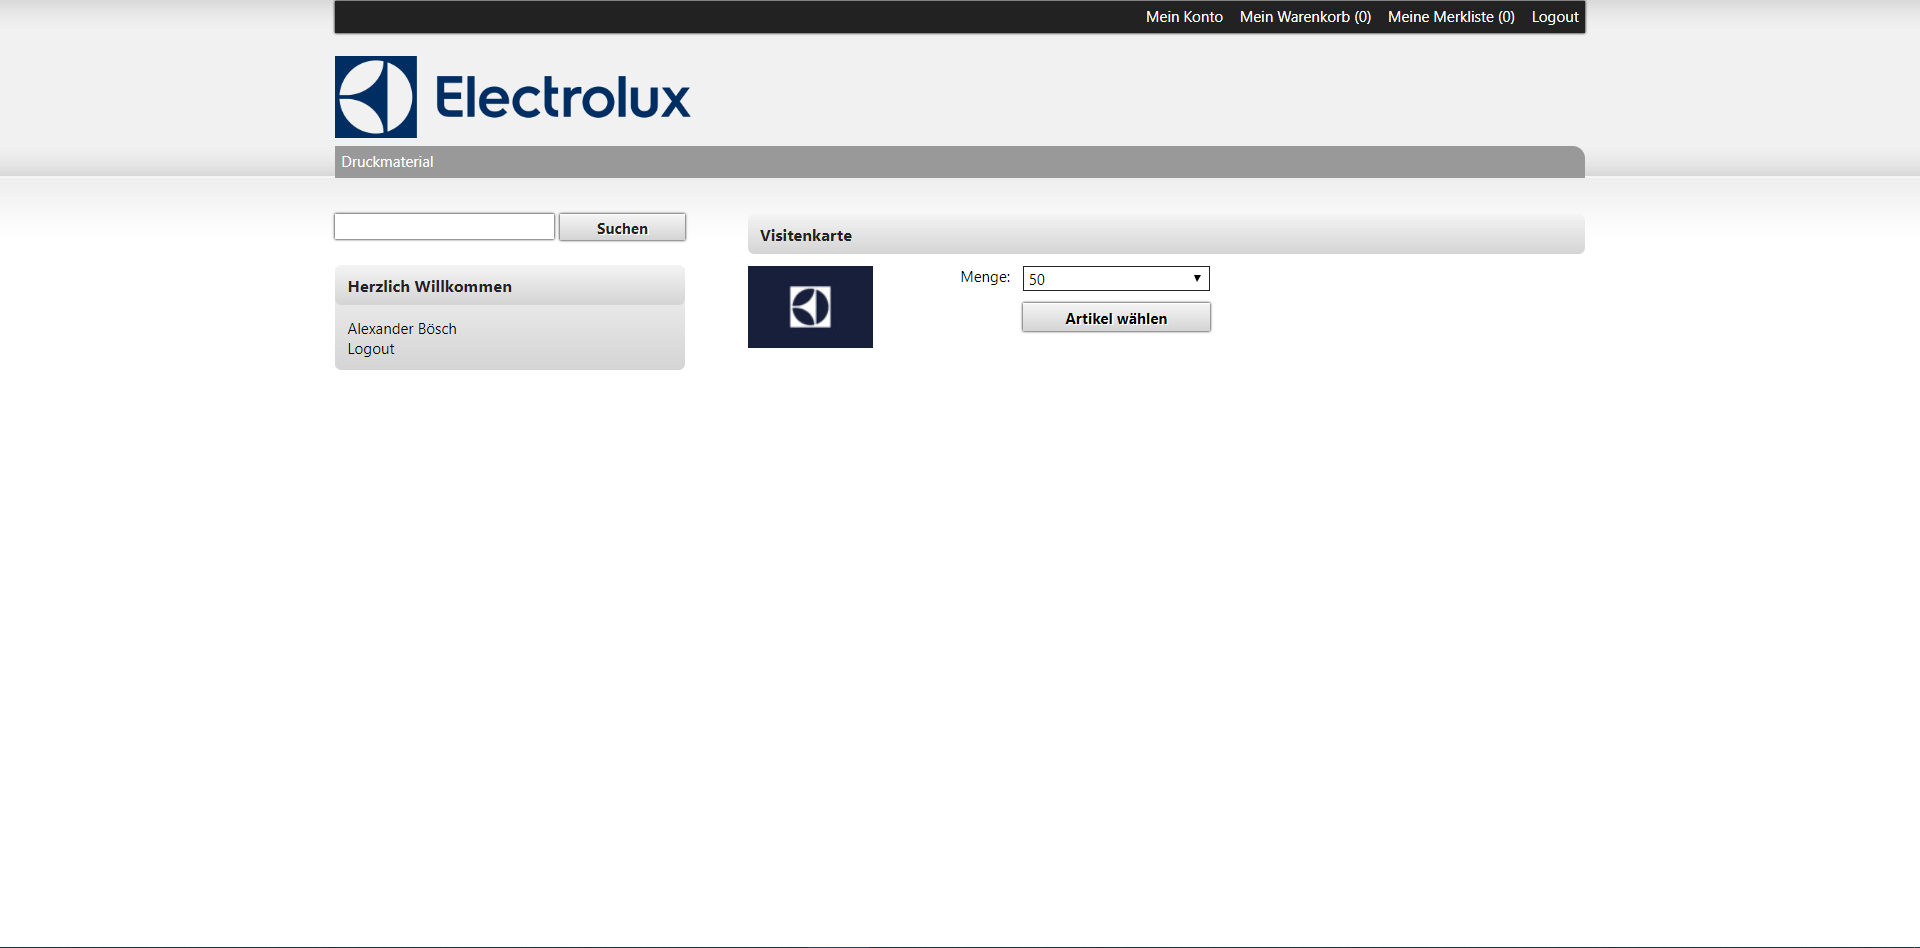
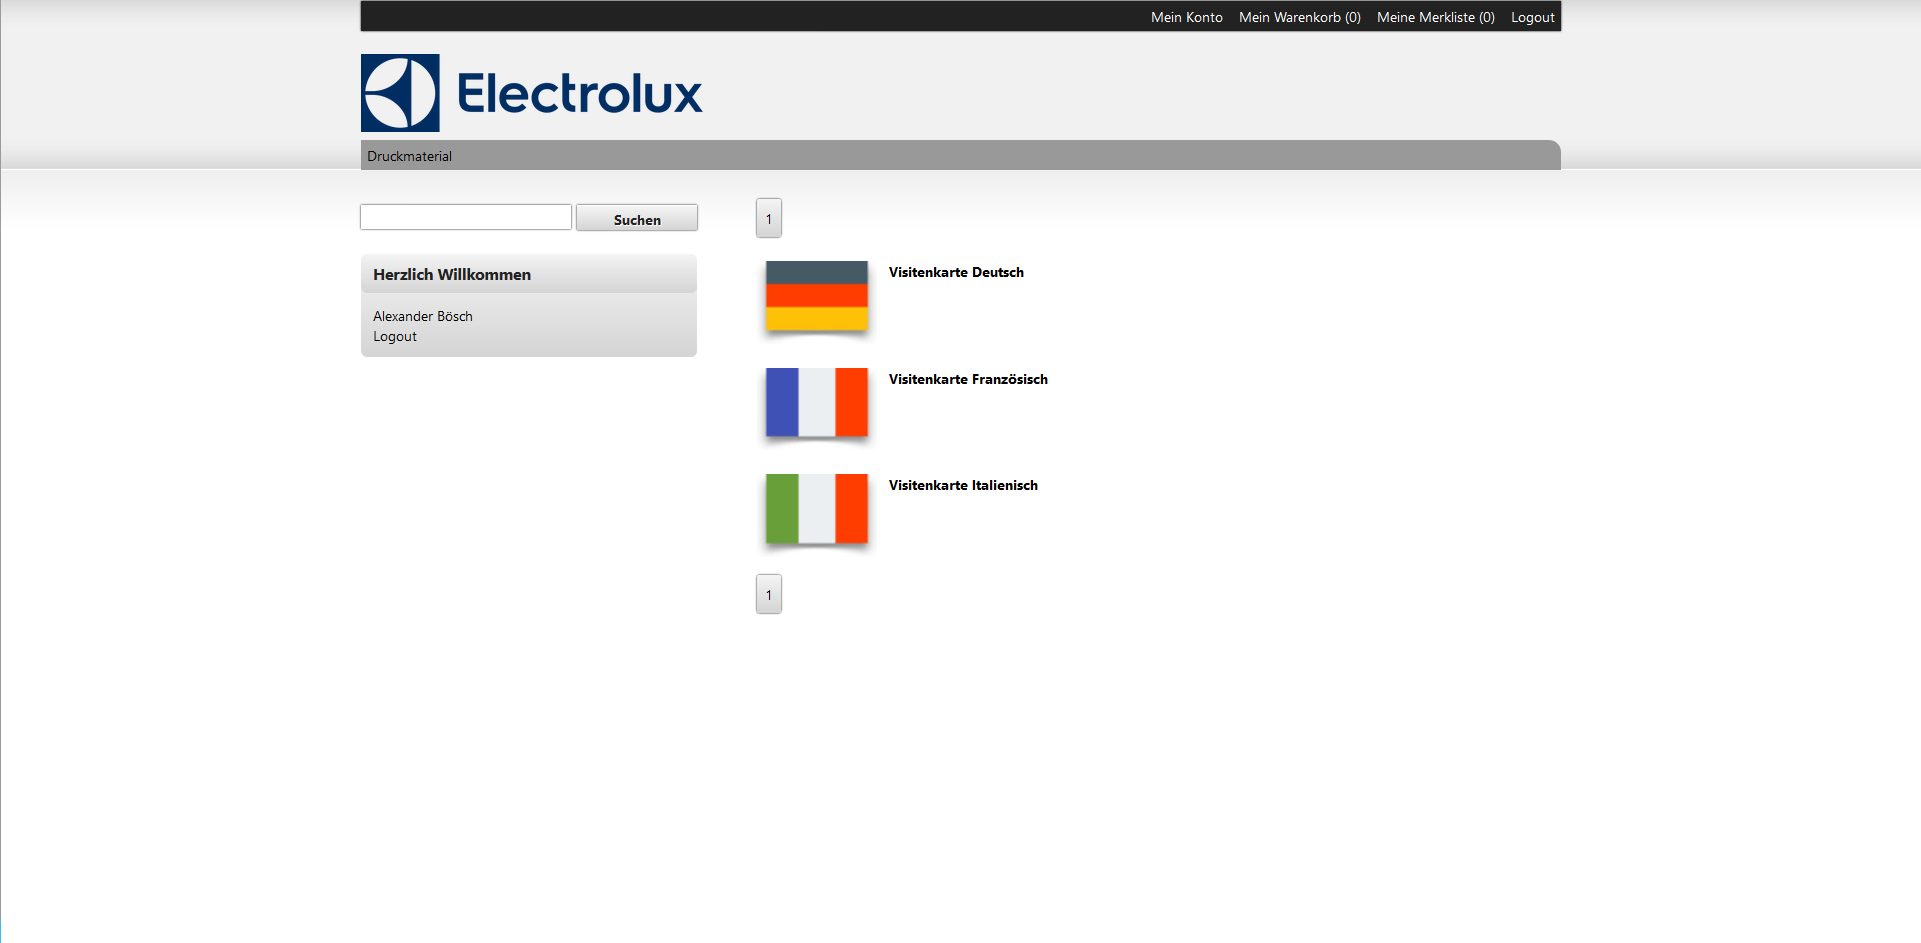
Update language selection

Changed region(s): [[0.1562, 0.0, 0.8438, 0.5843], [0.375, 0.6151, 0.4062, 0.6458]]

diff --git a/readme.md b/readme.md
@@ -2,30 +2,58 @@
 
 Sie finden Ihre persönliche Einkaufswelt unter: [http://el.pro-sales.ch](http://el.pro-sales.ch)
 
-![Preview: Shop](/img/index.png)
+![image: shop login!](/img/index.png)
 
 1. Geben Sie Ihre Zugangsdaten unter Login ein.
 2. Klicken Sie auf «Einloggen».
 
 ## Shop Einstieg
 
-Nach erfolgreichem Login werden Sie zu Ihrer Visitenkarte weitergeleitet:
+Nach erfolgreichem Login werden Sie zu den Druckmaterialien weitergeleitet:
 
-![Preview: Shop](/img/1.png)
+![image: shop index!](/img/1.png)
 
-Sie erreichen diese Ansicht indem Sie auf «Druckmaterial» und anschliessend auf «Visitenkarte» klicken.
+1. Wählen Sie eine Sprache aus.
+   - Deutsch
+   - Französisch
+   - Italienisch
+2. Wählen Sie die Bestellmenge (Auflage).
+3. Klicken Sie «Artikel wählen».
 
-Wählen Sie hier die Auflage in welcher die Visitenkarte produziert werden soll.
-
-Klicken Sie auf «Artikel wählen».
 
 ## Visitenkarte
 
 Sie sollten nun zum Editor gelangen:
 
-![Preview: Shop](/img/editor.png)
+![image: editor empty!](/img/editor.png)
 
 Füllen Sie die Visitenkarte vollständig aus.
+
+![image: editor filled!](/img/filled-in.png)
+
+### Service Helpline
+
+Sie können selbst entscheiden ob Sie die Service Helpline Nummer anzeigen
+lassen möchten oder nicht. Falls die Checkbox deaktiviert wurde wird keine
+Service Helpline ausgegeben:
+
+![image: disable service helpline!](/img/disable-service-helpline.png)
+
+### Automatisches Nachrücken
+
+Das System ist intelligent genug um Leerzeilen automatisch zu entfernen, 
+so das Sie immer einen Block ausgeben:
+
+![image: lines move auto!](/img/move-up.png)
+
+### Privat Adresse
+
+Der Prefix «Privat:» wird automatisch vor die Privatadresse gestellt,
+sofern diese Ausgefüllt wurde. Falls die Privatadresse leer bleibt, 
+wird auch der Prefix nicht ausgegeben:
+
+![image: private address!](/img/private-address.png)
+
 
 ## HTML Formatierungen
 
@@ -33,13 +61,13 @@ Alle Felder erlauben die Nutzung von [HTML](https://www.w3schools.com/html/html_
 
 | Formatierung | HTML-Befehl | Beispiel | Resultat |
 | ------------ | ----------- | -------- | -------- |
-| Umbruch      | `<br>`      | `Zeile 1<br>Zeile 2` | Zeile 1<br>Zeile 2 |
+| Umbruch      | `<br />`      | `Zeile 1<br />Zeile 2` | Zeile 1<br />Zeile 2 |
 
 ## Zu viel Text
 
 Sollte der Text einmal das Layout verlassen wird eine Fehlermeldung dargestellt:
 
-![Preview: Shop](/img/error.png)
+![image: error!](/img/error.png)
 
 Korrigieren Sie den Text und klicken Sie auf «In den Warenkorb» um das Produkt im Warenkorb aufzunehmen.
 Alternativ könnne Sie das Produkt auf die Merkliste setzen um dies später weiter zu bearbeiten.
@@ -48,7 +76,7 @@ Alternativ könnne Sie das Produkt auf die Merkliste setzen um dies später weit
 
 Dies ist Ihr Warenkorb - er zeigt Ihnen die aktuelle Bestellung:
 
-![Preview: Shop](/img/basket.png)
+![image: basket!](/img/basket.png)
 
 Hier können Sie noch einmal die Auflage korrigieren.
 
@@ -58,7 +86,7 @@ Durch klicken auf «Bestellen» bestellen Sie das Produkt.
 
 Optional können Sie nun eine Kostenstellennummer definieren:
 
-![Preview: Shop](/img/costs.png)
+![image: costs!](/img/costs.png)
 
 Klicken Sie auf «Bestellen».
 
@@ -67,7 +95,7 @@ Klicken Sie auf «Bestellen».
 Sie erhalten nun noch einmal eine Übersicht über Ihre Bestellung. Zusätzlich können Sie noch weitere Bemerkungen 
 hinzufügen welche in der Bestellung ausgegeben werden.
 
-![Preview: Shop](/img/note.png)
+![image: note!](/img/note.png)
 
 Klicken Sie auf «Bestellen».
 
@@ -75,26 +103,26 @@ Klicken Sie auf «Bestellen».
 
 Herzlichen Glückwunsch Ihr Produkt wurde bestellt.
 
-![Preview: Shop](/img/confirmation.png)
+![image: confirmation!](/img/confirmation.png)
 
 ## Bestellbestätigung (E-Mail)
 
 Gleichzeitig haben Sie als Besteller eine Bestätigungsemail erhalten in welchem das Produkt beigelegt wurde:
 
-![Preview: Shop](/img/mail.png)
+![image: confirmation mail!](/img/mail.png)
 
 Als Lieferadresse wird jeweils die Anschrift des Benutzers verwendet. Sie finden diese Angaben unter: «Mein Konto» > «Persönliche Daten ändern».
 
 Diese E-Mail wird zeitgleich an folgende Adressen zugestellt:
 
 - A.Boesch@schellenbergdruck.ch - Andreas Bösch
-- prosales@pro-sales.ch - Pro Sales GmbH
+- prosales@pro-sales.ch - Pro Sales AG
 
 ## Mein Konto
 
 Unter «Mein Konto» finden Sie alles was zu Ihrem Konto dazugehört:
 
-![Preview: Shop](/img/account.png)
+![image: account!](/img/account.png)
 
 Sie können hier bspw. Ihre ...:
 
@@ -103,3 +131,7 @@ Sie können hier bspw. Ihre ...:
 - Bestellungen einsehen
 
 Oder sich ausloggen.
+
+----------------------------------------------------------------------
+
+**Letzte Aktualisierung**: 03. Mai 2019
